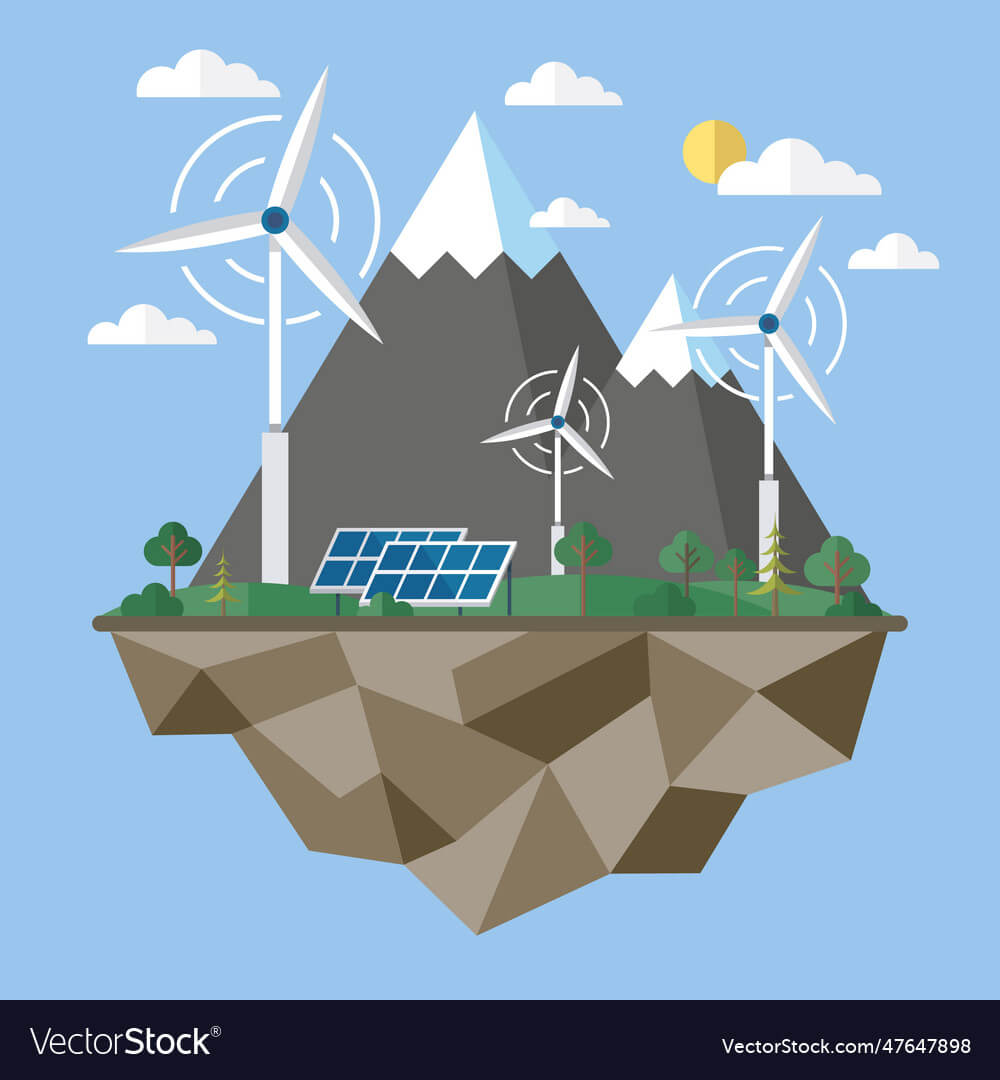
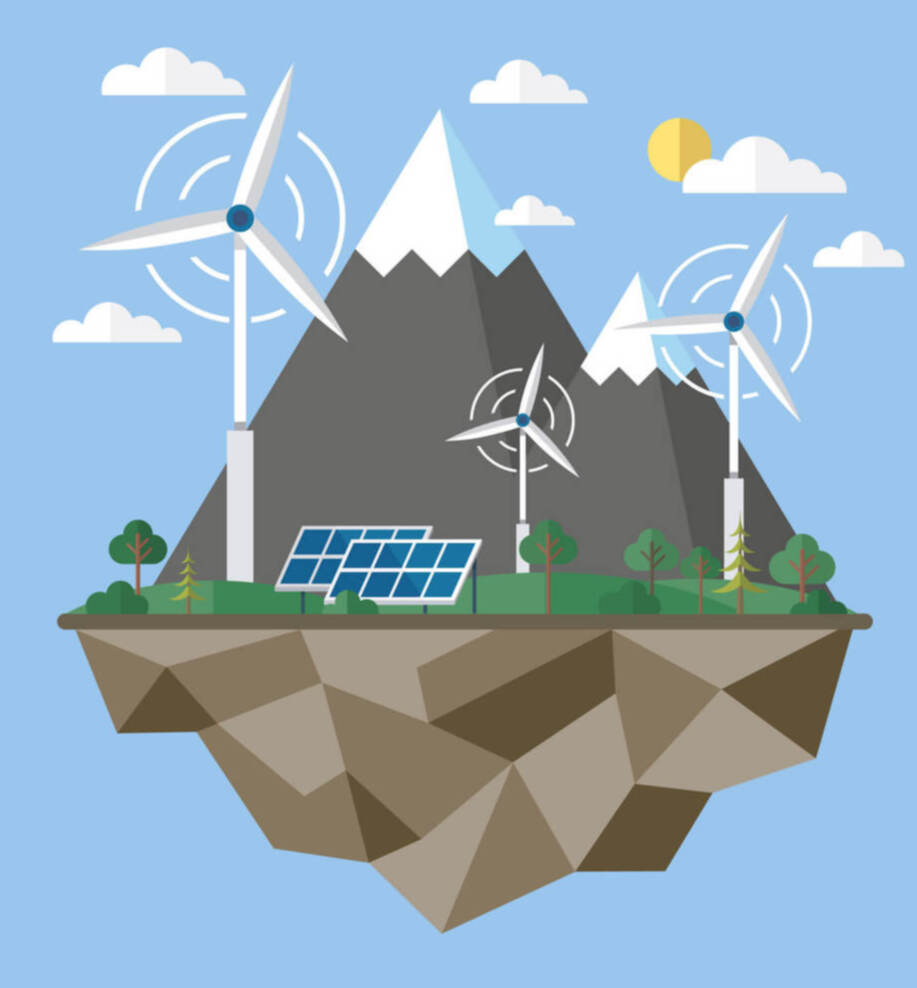
our mission updated

diff --git a/src/views/index.html b/src/views/index.html
@@ -856,16 +856,16 @@
 
         <div class="mt-5 max-w-3xl text-left mx-auto">
           <p class="text-lg text-gray-700 dark:text-gray-400">
-            <b>Enhancing Photovoltaic Energy</b>: We specialize in value-added
-            operation and maintenance services for photovoltaic energy systems.
+            <b>Elevating Solar Power</b>: We specialize in making photovoltaic
+            energy systems work and their specialized maintenance services.
             <br />
-            <b>Quality Triumphs</b>: Our approach centers on leading the market
-            through exceptional quality. <br />
-            <b>Embracing Innovation</b>: We believe in pioneering development
-            and striving for excellence in all endeavors.
+            <b>Prioritizing Excellence</b>: Our primary focus is leading the
+            market through exceptional quality. <br />
+            <b>Embracing New Ideas</b>: We believe in exploring innovative
+            concepts and achieving excellence.
             <br />
-            <b>Striving for Harmony</b>: Our vision is to achieve a harmonious,
-            zero-carbon future that benefits all stakeholders.
+            <b>Working Together for a Green Future</b>: Our vision is to create
+            a world where everyone benefits from clean, carbon-free energy.
           </p>
         </div>
 
@@ -878,20 +878,20 @@
 
           <div class="flex justify-center gap-x-6 sm:gap-x-12 lg:gap-x-24">
             <img
-              src="/devikot_site_3.jpg"
-              style="max-width: 10rem; aspect-ratio: 4/3"
+              src="/out/cleanme.webp"
+              style="max-width: 15rem; aspect-ratio: 4/3"
               alt="Photovoltaic"
             />
 
             <img
-              src="/devikot_site_4.jpg"
-              style="max-width: 10rem"
+              src="/out/windmill-and-solar-panel-wind-and-li-ion-vector-47647898.jpg"
+              style="max-width: 15rem"
               alt="Photovoltaic"
             />
 
             <img
-              src="/devikot_site_6.jpg"
-              style="max-width: 10rem"
+              src="/out/sketchsolar1.webp"
+              style="max-width: 15rem"
               alt="Photovoltaic"
             />
           </div>
@@ -1405,25 +1405,19 @@
     <div class="slider2">
       <div class="slide-track p-2">
         <div class="slide">
-          <img src="/out/globe-content.png" height="100" width="200" alt="" />
+          <img src="/out/adcdee4808771.png" height="100" width="400" alt="" />
         </div>
 
-        <div class="slide">
-          <img src="/out/makeinindia.jpg" height="200" width="350" alt="" />
-        </div>
-        <div class="slide">
-          <img src="/out/globe-content.png" height="100" width="200" alt="" />
-        </div>
-
-        <div class="slide">
-          <img src="/out/makeinindia.jpg" height="200" width="350" alt="" />
-        </div>
         <div class="slide">
           <img src="/out/globe-content.png" height="100" width="200" alt="" />
         </div>
 
         <div class="slide">
-          <img src="/out/makeinindia.jpg" height="200" width="350" alt="" />
+          <img src="/out/adcdee4808771.png" height="100" width="400" alt="" />
+        </div>
+
+        <div class="slide">
+          <img src="/out/globe-content.png" height="100" width="200" alt="" />
         </div>
       </div>
     </div>
